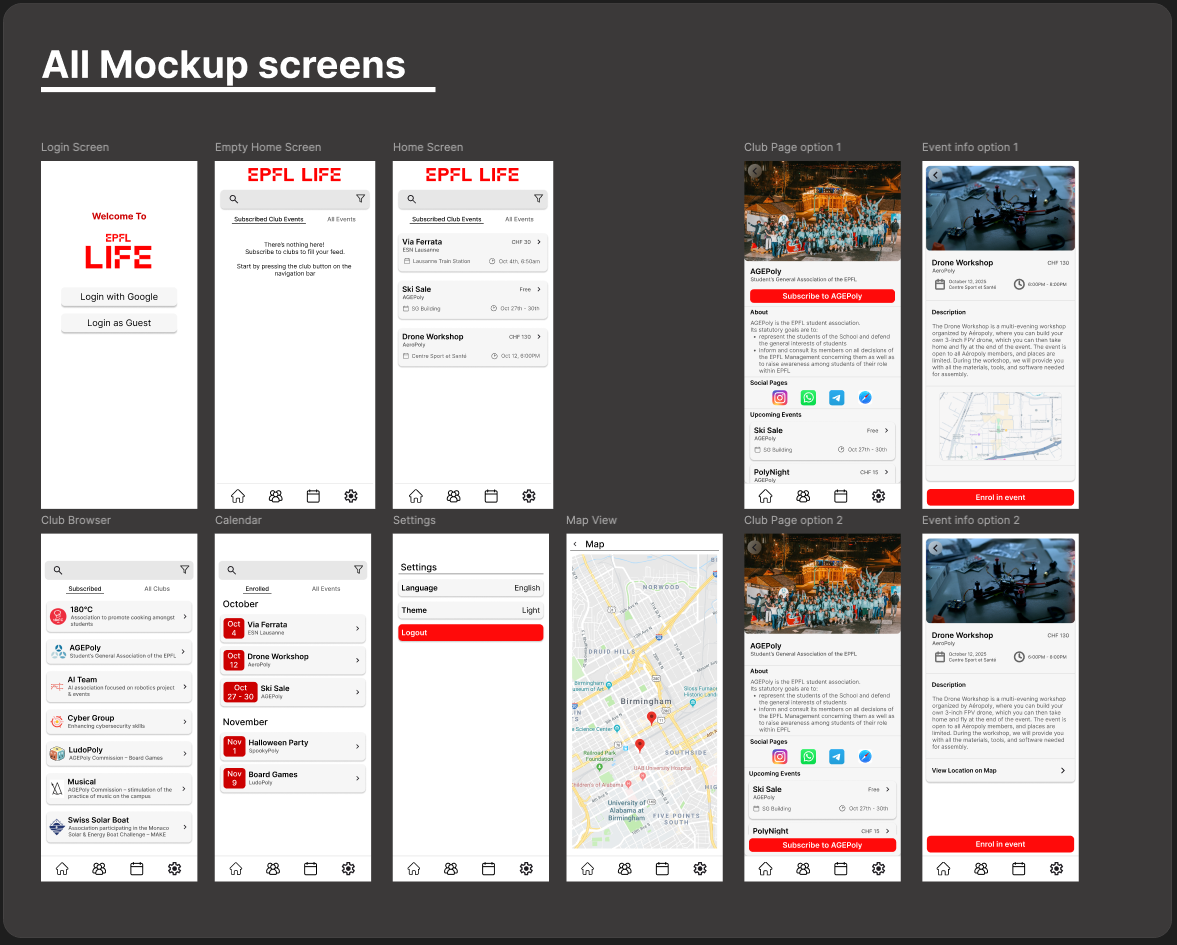
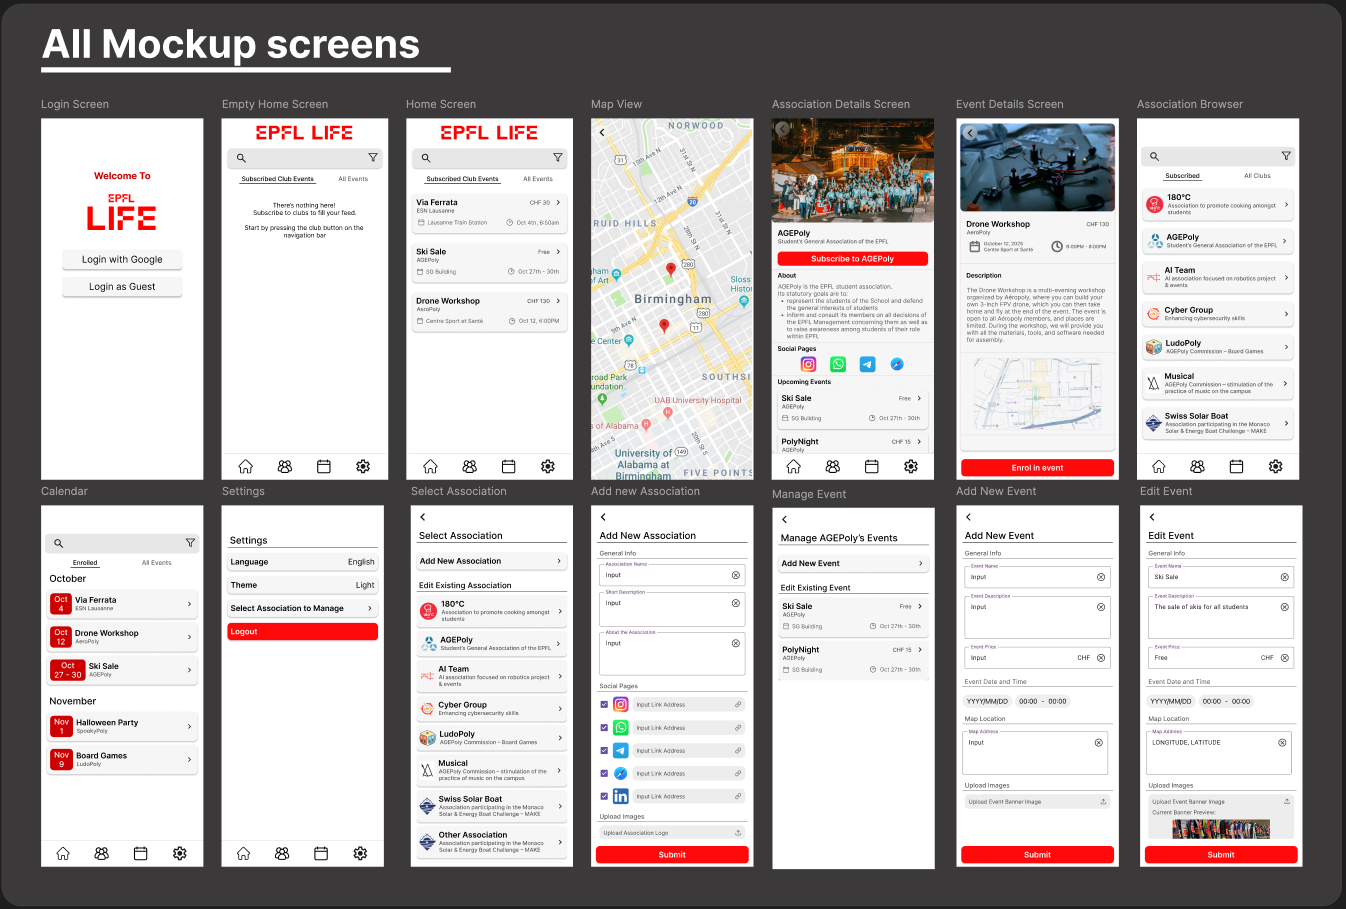
Design new figma mockup screen

diff --git a/docs/figma-designs.md b/docs/figma-designs.md
@@ -47,18 +47,23 @@ The following section presents the **high-fidelity mockups** created in Figma fo
 These mockups represent the final look and feel of the interface before implementation, ensuring design consistency across all screens.
 
 <p align="center">
-  <img src="../figma-work/mockup-screenshots/AllMockups.png" alt="All Mockup Screens" width="600">
+  <img src="../figma-work/mockup-screenshots/AllMockups.png" alt="All Mockup Screens" width="1346">
 </p>
 
 ### User Flows
 <p align="center">
-  <img src="../figma-work/mockup-screenshots/MUuserFlow1.png" alt="Association Details Mockup" width="600"><br>
-  <img src="../figma-work/mockup-screenshots/MUuserFlow2.png" alt="Event Details Mockup" width="600"><br>
-<img src="../figma-work/mockup-screenshots/MUuserFlow3.png" alt="Event Details Mockup" width="600"><br>
-<img src="../figma-work/mockup-screenshots/MUuserFlow4.png" alt="Event Details Mockup" width="600"><br>
-<img src="../figma-work/mockup-screenshots/MUuserFlow5.png" alt="Event Details Mockup" width="600"><br>
-<img src="../figma-work/mockup-screenshots/MUuserFlow6.png" alt="Event Details Mockup" width="600"><br>
-<img src="../figma-work/mockup-screenshots/MUuserFlow7.png" alt="Event Details Mockup" width="600">
+  <img src="../figma-work/mockup-screenshots/mockupUserFlow1.png" alt="Association Details Mockup" width="986"><br>
+  <img src="../figma-work/mockup-screenshots/mockupUserFlow2.png" alt="Event Details Mockup" width="980"><br>
+<img src="../figma-work/mockup-screenshots/mockupUserFlow3.png" alt="Event Details Mockup" width="718"><br>
+<img src="../figma-work/mockup-screenshots/mockupUserFlow4.png" alt="Event Details Mockup" width="1100"><br>
+<img src="../figma-work/mockup-screenshots/mockupUserFlow5.png" alt="Event Details Mockup" width="836"><br>
+<img src="../figma-work/mockup-screenshots/mockupUserFlow6.png" alt="Event Details Mockup" width="1043"><br>
+<img src="../figma-work/mockup-screenshots/mockupUserFlow7.png" alt="Event Details Mockup" width="1042">
+<img src="../figma-work/mockup-screenshots/mockupUserFlow8.png" alt="Event Details Mockup" width="986">
+<img src="../figma-work/mockup-screenshots/mockupUserFlow9.png" alt="Event Details Mockup" width="918">
+<img src="../figma-work/mockup-screenshots/mockupUserFlow10.png" alt="Event Details Mockup" width="1477">
+<img src="../figma-work/mockup-screenshots/mockupUserFlow11.png" alt="Event Details Mockup" width="1503">
+<img src="../figma-work/mockup-screenshots/mockupUserFlow12.png" alt="Event Details Mockup" width="1503">
 </p>
 
 These mockups highlight:
